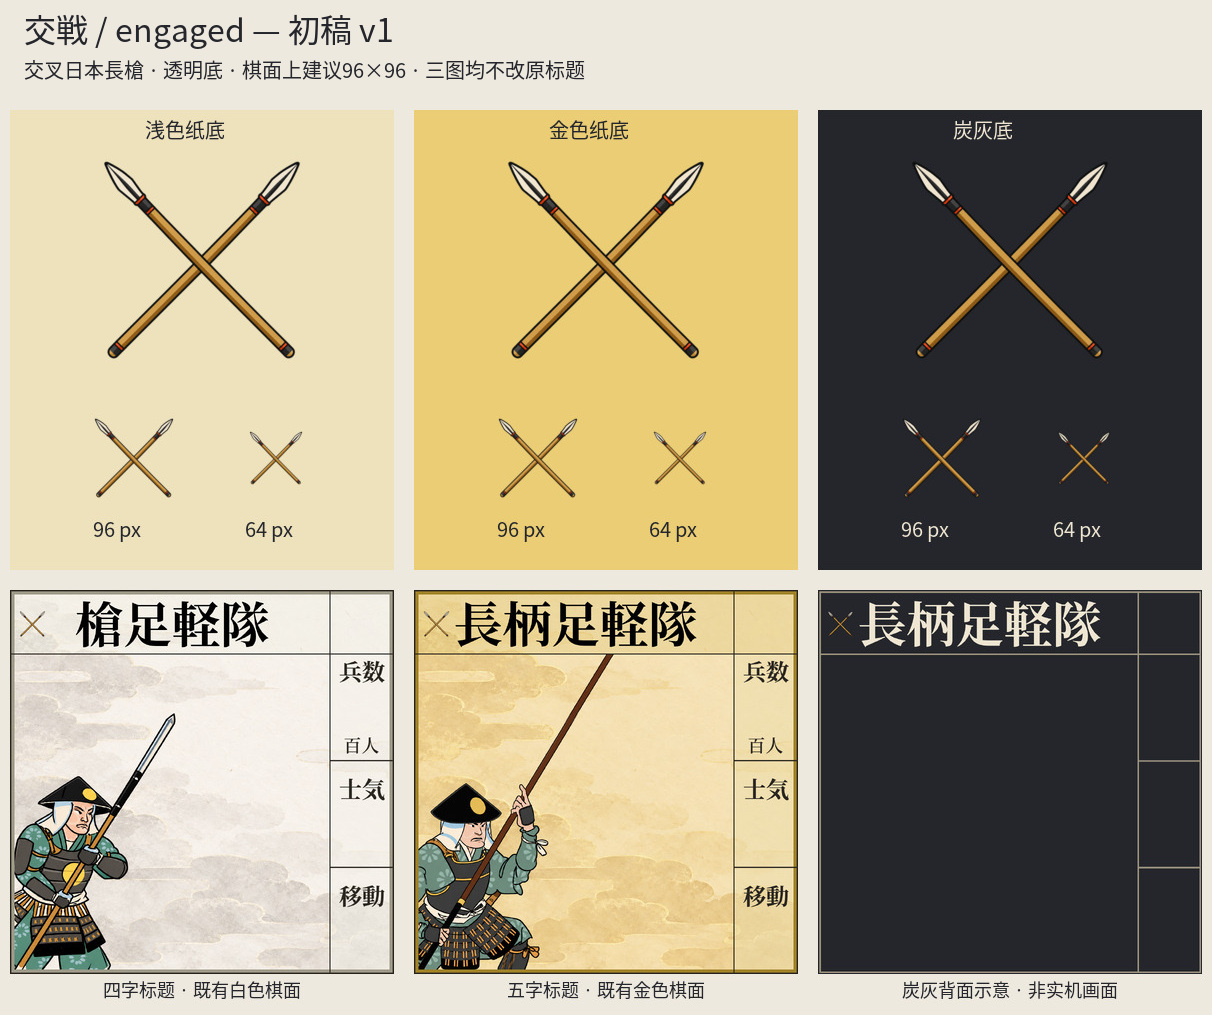
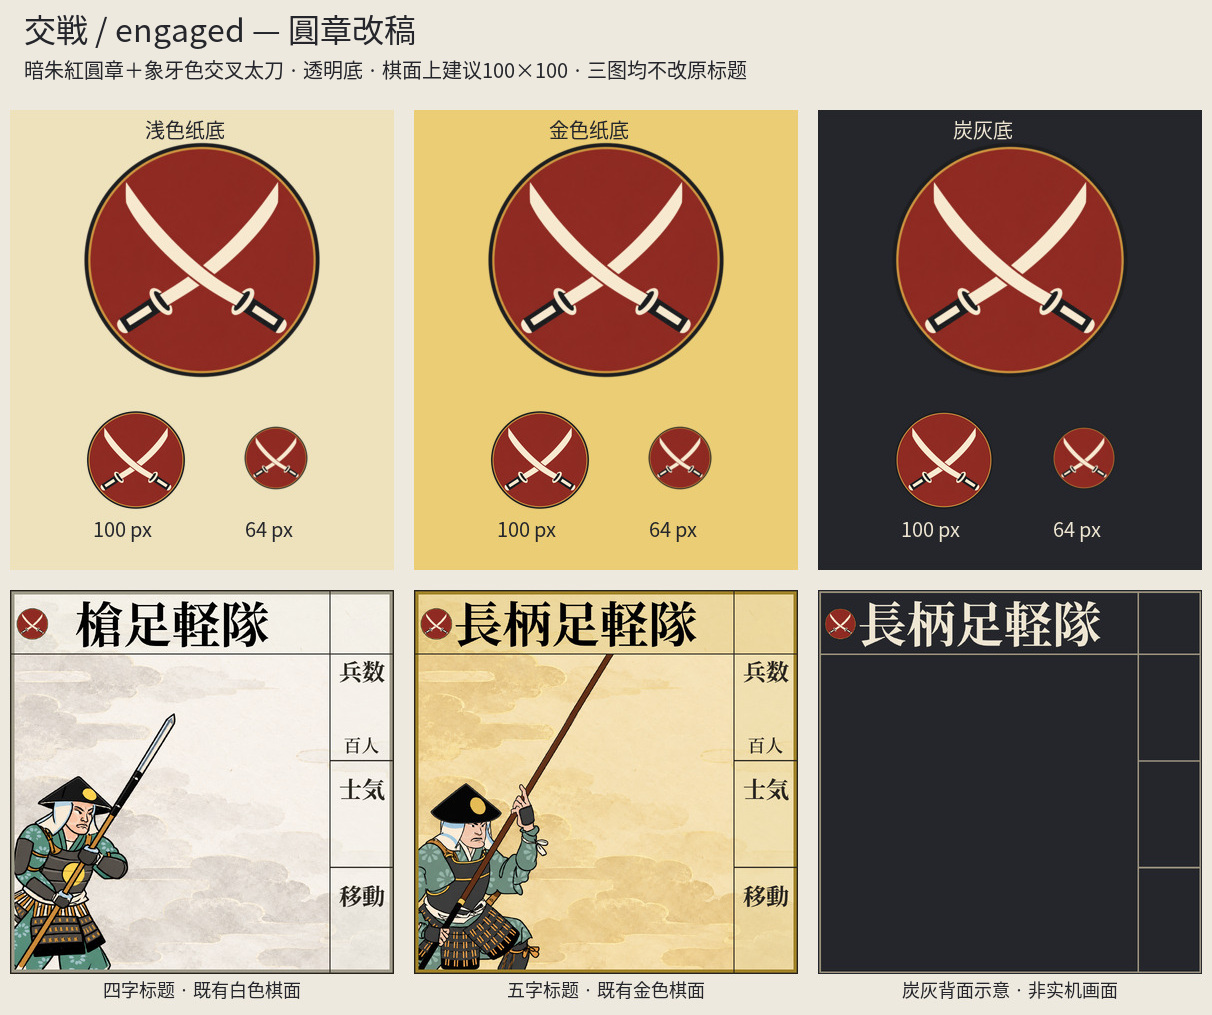
Replace engaged spears with a bold 100px crossed-katana badge

diff --git a/素材/状态图标/v1/README.md b/素材/状态图标/v1/README.md
@@ -1,23 +1,24 @@
-# 状态图标 v1 · 交戦初稿
+# 状态图标 v1 · 交戦圆章改稿
 
-本轮只制作 **交戦 / `engaged`**：两支对称交叉的日本直枪，以暖金木杆、象牙色枪刃、深色轮廓表达近战。图标为独立透明图片，供用户审阅；尚未接入 TTS Global Lua。
+本轮只制作 **交戦 / `engaged`**。按用户选择，将细枪杆的交叉长枪稿改为 **暗朱红实心圆章＋象牙色交叉太刀**，以更宽的刀刃和完整的色块提高缩远辨识度。圆章尽量填满 **100 × 100** 的显示区域，外侧透明；尚未接入 TTS Global Lua。
 
-[查看总览](./总览.jpg) · [透明 PNG](./engaged.png) · [1024 源图](./源图/engaged-1024.png) · [manifest.json](./manifest.json)
+[查看总览](./总览.jpg) · [100 × 100 PNG](./engaged-100.png) · [512 PNG](./engaged.png) · [1024 源图](./源图/engaged-1024.png) · [manifest.json](./manifest.json)
 
 ## 文件与尺寸
 
 | 文件 | 像素尺寸 | 透明留白（左 / 上 / 右 / 下） | 用途 |
 | --- | --- | --- | --- |
-| `engaged.png` | 512 × 512 | 45 / 44 / 45 / 44 px | 建议用于接入的透明 RGBA PNG |
-| `源图/engaged-1024.png` | 1024 × 1024 | 95 / 92 / 95 / 92 px | 高分辨率透明版本，便于后续调整 |
+| `engaged.png` | 512 × 512 | 3 / 4 / 3 / 4 px | 保留稳定接入路径的透明 RGBA PNG |
+| `engaged-100.png` | 100 × 100 | 0 / 0 / 0 / 0 px | 按建议显示尺寸直接导出的 PNG |
+| `源图/engaged-1024.png` | 1024 × 1024 | 10 / 12 / 10 / 12 px | 高分辨率透明版本，便于后续调整 |
 
-留白按 alpha > 0 的可见像素外接矩形测量，包含抗锯齿边缘。图标没有文字或背景底板。建议保持原有颜色，不对整张图片乘黑色或降低透明度。
+留白按 alpha > 0 的像素外接矩形测量，包含低透明度抗锯齿边缘。100 px 版本的抗锯齿像素延伸到画布边界，主体圆边仍留约 1 px 余量，四角透明。圆章内部为实心底色，圆外透明；没有文字。建议保持原有颜色，不对整张图片乘黑色或降低透明度。
 
 ## 棋面定位初稿
 
-以 **1200 × 1200** 棋面、左上角为 `(0,0)`：显示画布 **96 × 96**，左上角 **`(22,58)`**，中心 **`(70,106)`**。此处记录的是整张 PNG 画布的位置，保留透明留白，不要按可见轮廓重新裁切定位。
+以 **1200 × 1200** 棋面、左上角为 `(0,0)`：显示画布 **100 × 100**，左上角 **`(20,56)`**，中心 **`(70,106)`**。此处记录的是整张 PNG 画布的位置，不要按可见轮廓重新裁切定位。
 
-现有标题栏内部为 `x=14..997, y=14..197`。上述画布距离左内框 8 px，与最靠左的五字标题仍有 10 px 间隙；四字、五字名称使用同一图标位置。此方案无需改动已烘焙的标题，也不修改现有 96 张成品。
+现有标题栏内部为 `x=14..997, y=14..197`。上述画布距离左内框 6 px，与最靠左的五字标题仍有 8 px 间隙；四字、五字名称使用同一图标位置。此方案无需改动已烘焙的标题，也不修改现有 96 张成品。
 
 - [四字标题 / 白色正面，1200 × 1200](./预览/engaged_四字标题_1200.png)
 - [五字标题 / 金色正面，1200 × 1200](./预览/engaged_五字标题_1200.png)
@@ -25,11 +26,12 @@
 - [标题栏原尺寸细节](./预览/engaged_标题栏细节.jpg)
 - [棋面缩至 300 px 的检查图](./预览/engaged_缩远检查.jpg)
 
-炭灰示意采用 `#24262B`，用于检查图标对比与标题留位，**不是 TTS 实机截图，也不是已确认的背面贴图**。总览额外展示 96 px、64 px 的独立图标。棋面缩至 300 px 时，此图标只剩 24 px，主要能识别交叉形；枪刃和枪座细节会减弱。是否需要更大标记，应以 TTS 的实际缩放、倾斜视角验收后决定；扩大显示尺寸如需调整标题留位，应单独提出美术变更。
+炭灰示意采用 `#24262B`，用于检查图标对比与标题留位，**不是 TTS 实机截图，也不是已确认的背面贴图**。总览额外展示 100 px、64 px 的独立图标。棋面缩至 300 px 时，圆章仍占 25 px，可识别朱红圆形和象牙色交叉刀形，刀柄及刀镡细节会减弱。最终显示效果仍需在 TTS 实际缩放和倾斜视角下验收。
 
 ## 代码侧交接
 
 - 固定标识：`engaged`；建议引用 `manifest.json` 中的路径、像素尺寸与定位。
+- 本次为 `revision: 2`，显示尺寸由 96 改为 100 px，左上坐标由 `(22,58)` 改为 `(20,56)`，中心保持 `(70,106)`；需要同步更新代码侧的尺寸与坐标，而不只是替换图片。
 - `cloud_url` 当前为空。仓库预览链接不代表已配置或已验证的 TTS 图片资源；需要代码侧选定图片托管、登记资源并验证加载。
 - 由代码侧实现状态保存／恢复、显示／隐藏和触发方式；本稿不提供自动判定交战或回合清除规则。
 - 1200 棋面像素坐标需映射到实际物件坐标／UI。已有正背面渲染方式、厚度偏移及资源登记顺序请按代码侧交接保留，不能直接把本文件的像素数当作 TTS 世界坐标。
@@ -42,6 +44,6 @@
 
 美术分支 `codex/art-status-icons` 从最新 `main` 的 `8c7aaa731f124eb693a23800402a65033806975f` 创建，使用独立工作目录。未合并 PR #2；本次交接仅写在此目录，公共 HANDOFF 由代码侧整合。
 
-检查覆盖：PNG 尺寸及真实透明通道、留白与 manifest 一致、浅／深底视觉对比、四字／五字标题不重叠、前面预览在图标区域之外保持原像素，以及新素材目录以外的既有文件完全不变。没有修改 `tts/`、`tests/`、`tools/tts/` 或 `troop-cards-download` 分支。
+检查覆盖：三份 PNG 的尺寸及真实透明通道、圆章内部不透明、四角透明、留白与 manifest 一致、浅／深底视觉对比、四字／五字标题不重叠、前面预览在图标区域之外保持原像素，以及新素材目录以外的既有文件完全不变。没有修改 `tts/`、`tests/`、`tools/tts/` 或 `troop-cards-download` 分支。
 
 本轮未运行 Lua／MoonSharp 检查（仅新增美术），也未进行 TTS 实机渲染、联机或斜视验收。该图标仍为待用户确认的初稿。
